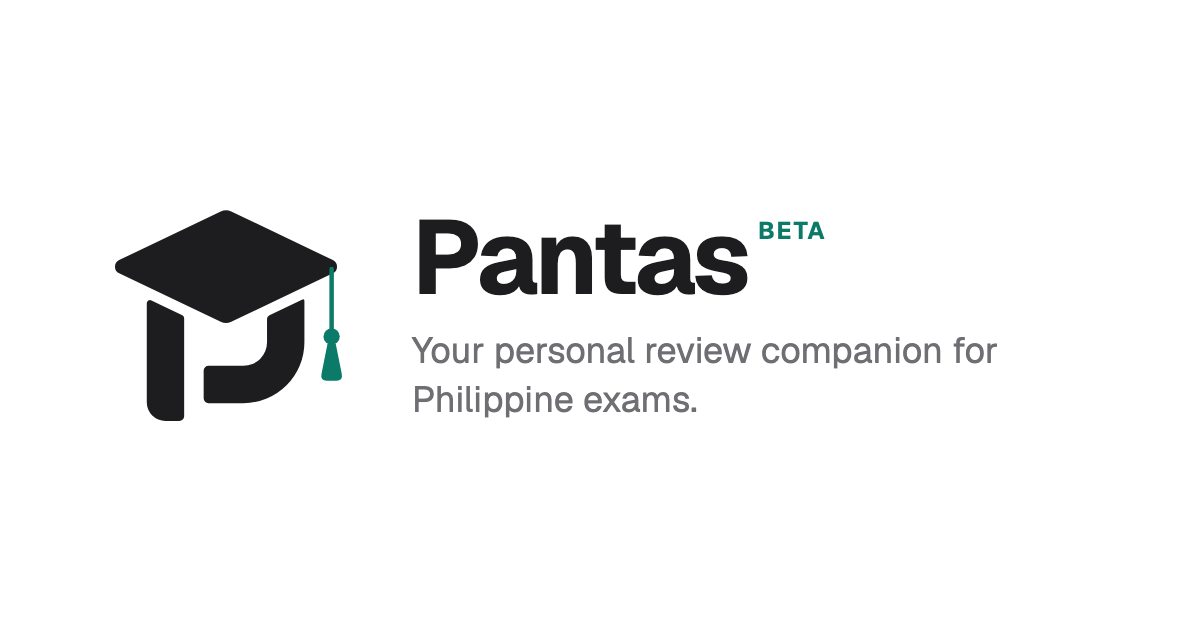
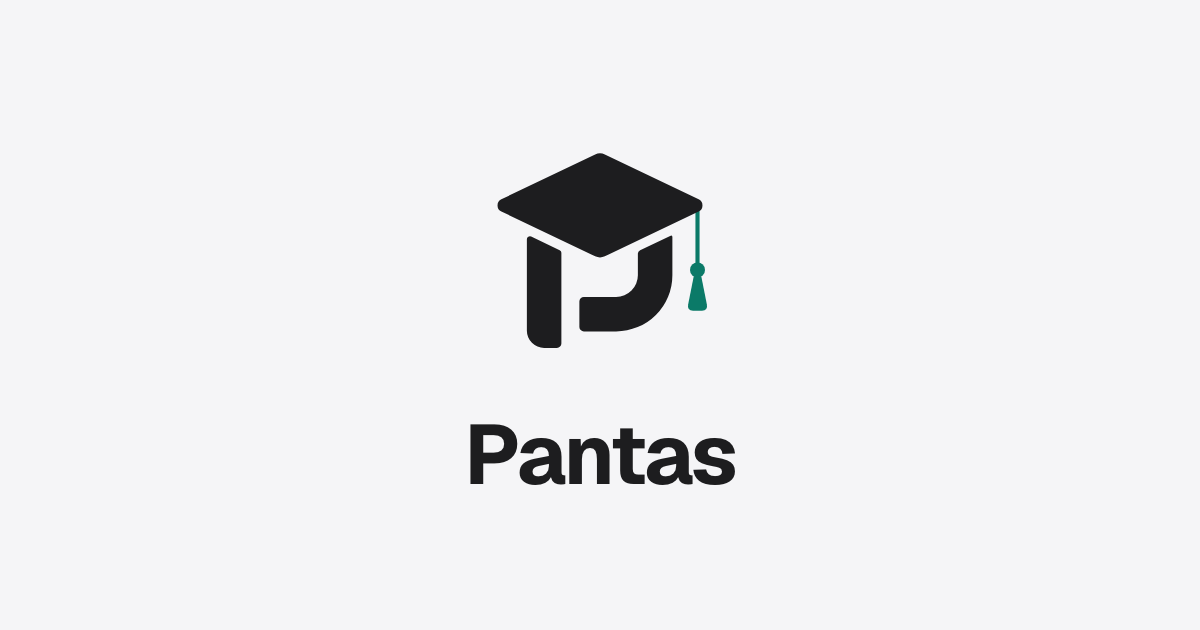
Link preview image without the beta mark: his approved splash lockup at 1200 x 630
The board decision (Link Preview Image, Main frame) replaces the Nov 6 image
that carried the BETA mark. Alt text follows the image. A test keeps beta
wording out of the preview tags.

Changed region(s): [[0.3392, 0.2413, 0.8325, 0.573], [0.0925, 0.3317, 0.3083, 0.6937], [0.3392, 0.6032, 0.6167, 0.7841]]

diff --git a/test/web/link_preview_test.dart b/test/web/link_preview_test.dart
@@ -1,0 +1,31 @@
+import 'dart:io';
+import 'dart:typed_data';
+
+import 'package:flutter_test/flutter_test.dart';
+
+// The link preview image is the approved splash lockup with no beta mark
+// (board https://claude.ai/artifact/8emGUsKPxKrkpqd1rHi2sw, E-180).
+void main() {
+  final html = File('web/index.html').readAsStringSync();
+
+  test('preview tags name the logo and carry no beta wording', () {
+    expect(
+      html,
+      contains('<meta property="og:image:alt" content="The Pantas logo">'),
+    );
+    final previewTags = RegExp('<meta (property="og:|name="twitter:)[^>]*>')
+        .allMatches(html)
+        .map((m) => m.group(0)!);
+    for (final tag in previewTags) {
+      expect(tag.toLowerCase(), isNot(contains('beta')), reason: tag);
+    }
+  });
+
+  test('preview image is a 1200 x 630 PNG', () {
+    final bytes = File('web/og-image.png').readAsBytesSync();
+    final data = ByteData.sublistView(bytes);
+    expect(bytes.sublist(1, 4), 'PNG'.codeUnits);
+    expect(data.getUint32(16), 1200);
+    expect(data.getUint32(20), 630);
+  });
+}

diff --git a/web/index.html b/web/index.html
@@ -45,7 +45,7 @@
   <meta property="og:image" content="https://app.pantas.study/og-image.png">
   <meta property="og:image:width" content="1200">
   <meta property="og:image:height" content="630">
-  <meta property="og:image:alt" content="The Pantas logo with the words Pantas beta">
+  <meta property="og:image:alt" content="The Pantas logo">
   <meta name="twitter:card" content="summary_large_image">
   <meta name="twitter:image" content="https://app.pantas.study/og-image.png">
 
